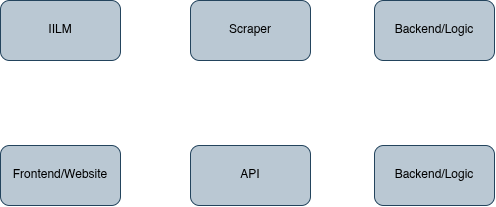
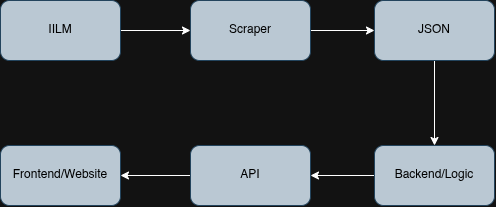
fix: timeout error in scraper

diff --git a/scraper/scraper.py b/scraper/scraper.py
@@ -4,7 +4,7 @@ from selenium import webdriver
 from selenium.webdriver.firefox.options import Options
 from selenium.webdriver.common.by import By
 from selenium.webdriver.support.ui import WebDriverWait
-from selenium.common.exceptions import TimeoutException
+from selenium.common.exceptions import TimeoutException, WebDriverException
 
 
 maxRetries = 3
@@ -41,7 +41,7 @@ def load_page():
 
             return driver
 
-        except TimeoutException:
+        except WebDriverException:
             print("Website not loaded")
 
         if driver:

diff --git a/src/testing.py b/src/testing.py
@@ -15,8 +15,8 @@ section = set()
 classroomSection = []
 emptyClassroom = set()
 
-localPeriod = [5]
-localDay = "Wednesday"
+localPeriod = [6]
+localDay = "Tuesday"
 
 lengthAll = len(allClassroom)
 
